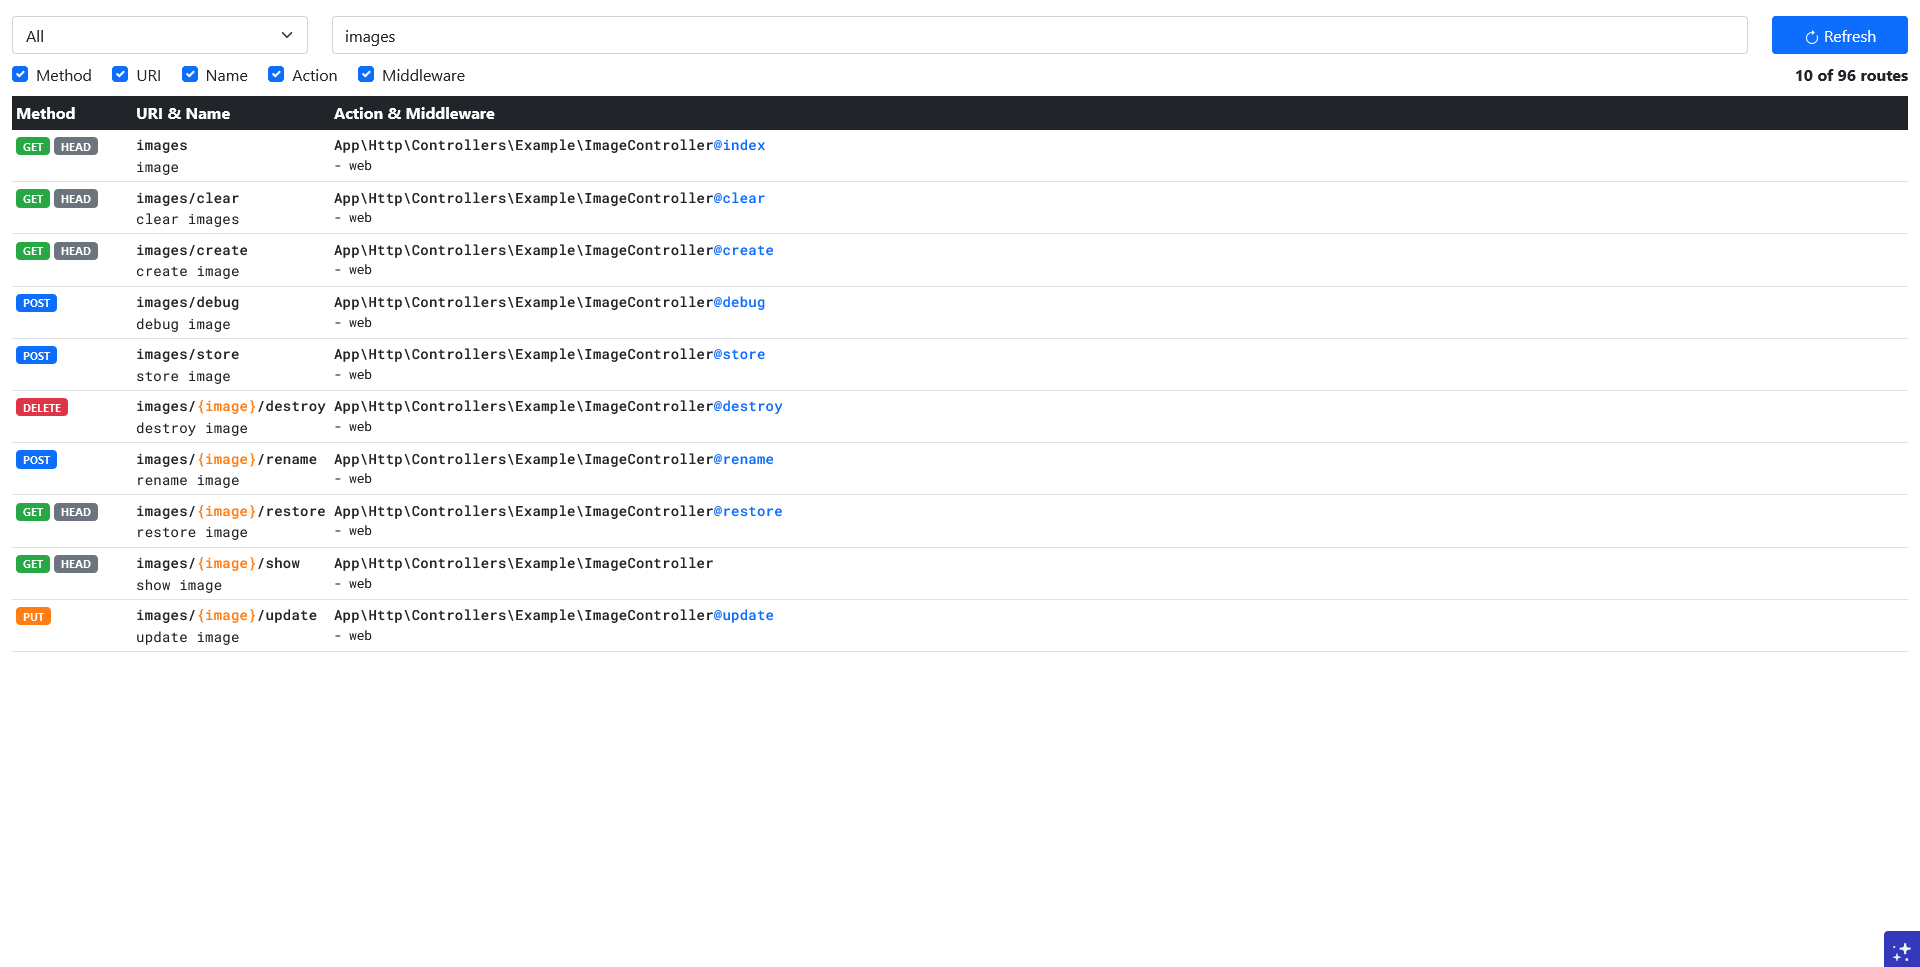
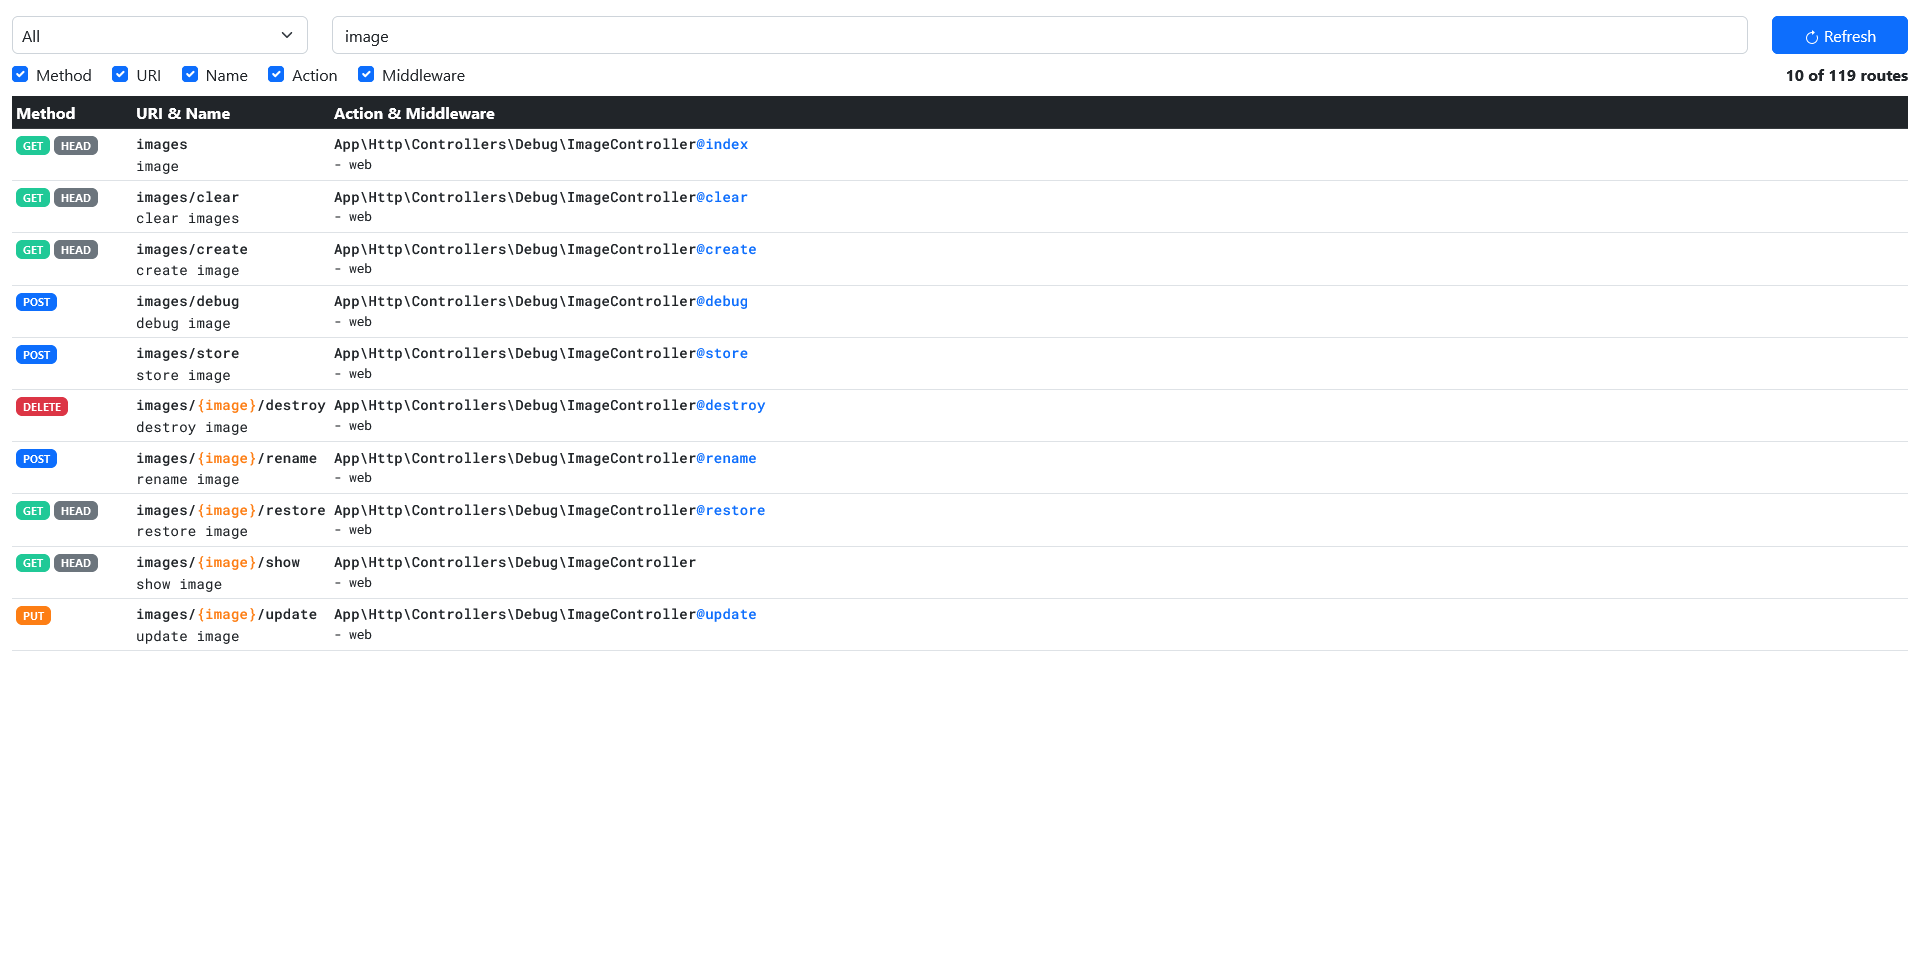
declare Debug/ImageController as Depricated

diff --git a/app/Http/Controllers/Debug/ImageController.php b/app/Http/Controllers/Debug/ImageController.php
@@ -6,12 +6,14 @@ use Exception;
 use App\Models\Image;
 use Illuminate\Http\Request;
 use App\Services\ImageService;
-use Database\Seeders\ImageSeeder;
 use Illuminate\Support\Facades\DB;
 use App\Http\Controllers\Controller;
 use Illuminate\Support\Facades\Storage;
 use App\Http\Requests\StoreImageRequest;
-use App\Http\Controllers\Modules\ImageValidatorModule;
+
+/**
+ * @deprecated
+ */
 
 class ImageController extends Controller
 {
@@ -26,13 +28,12 @@ class ImageController extends Controller
     /* variant1 */
     /**
      * Display a listing of the resource.
-     *
+     * performance: 1 querie->good
      * @return \Illuminate\Http\Response
      */
     public function index()
     {
         $images = Image::withTrashed()->get();
-        // performance: 1 querie->good
         if ($images->isEmpty())
             return view('image.index');
         else
@@ -76,7 +77,7 @@ class ImageController extends Controller
             /* Pfad mit Namen und speichern*/
             // $path = $request->file('image')->storeAs('images', $name, 'public');
             /* Pfad ohne Namen */
-            $name = time() . $request->file('image')->hasName();
+            $name = time() . $request->file('image')->has('name');
             $request->file('image')->storeAs('images', $name, 'public');
             $metadata = Image::create();
             $metadata->name = $name;
@@ -101,7 +102,6 @@ class ImageController extends Controller
     {
         return view('/image.upload');
     }
-
 
     /**
      * Display the specified resource.
@@ -205,7 +205,7 @@ class ImageController extends Controller
     {
         $this->imageService->imageExist($request);
         $this->imageService->imageValid($request);
-        $name = $request->file('image')->hasName();
+        $name = $request->file('image')->has('name');
         $path = $request->file('image')->store('image');
 
         // SaveOrFail costumized
@@ -258,7 +258,10 @@ class ImageController extends Controller
 
         //copy Uploaded File
         $destinationPath = 'debugPath';
-        $req->copy($destinationPath, $req->hasName());
+        $req->copy(
+            $destinationPath,
+            $req->has('name')
+        );
 
         /* display self metadata */
         $path = 'debug';

diff --git a/app/Http/Controllers/ImageController.php b/app/Http/Controllers/ImageController.php
@@ -2,62 +2,43 @@
 
 namespace App\Http\Controllers;
 
-use Illuminate\Http\Request;
+use App\Models\Image;
+use App\Http\Requests\StoreImageRequest;
+use App\Http\Requests\UpdateImageRequest;
 
 class ImageController extends Controller
 {
-    /**
-     * Display a listing of the resource.
-     */
     public function index()
     {
         //
     }
 
-    /**
-     * Show the form for creating a new resource.
-     */
     public function create()
     {
         //
     }
 
-    /**
-     * Store a newly created resource in storage.
-     */
-    public function store(Request $request)
+    public function store(StoreImageRequest $request)
     {
         //
     }
 
-    /**
-     * Display the specified resource.
-     */
-    public function show(string $id)
+    public function show(Image $image)
     {
         //
     }
 
-    /**
-     * Show the form for editing the specified resource.
-     */
-    public function edit(string $id)
+    public function edit(Image $image)
     {
         //
     }
 
-    /**
-     * Update the specified resource in storage.
-     */
-    public function update(Request $request, string $id)
+    public function update(UpdateImageRequest $request, Image $image)
     {
         //
     }
 
-    /**
-     * Remove the specified resource from storage.
-     */
-    public function destroy(string $id)
+    public function destroy(Image $image)
     {
         //
     }

diff --git a/app/Http/Controllers/Debug/UserController.php b/app/Http/Controllers/Debug/UserController.php
@@ -10,13 +10,13 @@ class UserController extends Controller
 {
     public function test()
     {
-        /** works performance: 2 queries->bad*/
-        if (User::first() == null)
-            $users = null;
-        else {
-            $users = User::all();
-            return view('debug.person', compact('users'));
-        }
+        // /** works performance: 2 queries->bad*/
+        // if (User::first() == null)
+        //     $users = null;
+        // else {
+        //     $users = User::all();
+        //     return view('debug.person', compact('users'));
+        // }
 
         /** need auth */
         // $dbUser = User::where('name', 'Max Mustermann')->first();

diff --git a/app/Http/Controllers/Debug/PersonController.php b/app/Http/Controllers/Debug/PersonController.php
@@ -11,12 +11,12 @@ class PersonController extends Controller
 {
     public function test($id = 1)
     {
-        /** need pagination, performance: 2 queries->bad */
-        if (Person::count() == 0)
-            return view('debug.user');
-        else
-            $people = Person::all();
-        return view('debug.user', compact('people'));
+        // /** need pagination, performance: 2 queries->bad */
+        // if (Person::count() == 0)
+        //     return view('debug.user');
+        // else
+        //     $people = Person::all();
+        // return view('debug.user', compact('people'));
 
         /** works */
         // $view = Person::view();

diff --git a/app/Services/ImageService.php b/app/Services/ImageService.php
@@ -22,7 +22,7 @@ class ImageService
     public function imageValid(Request $request)
     {
         $validatedImage = $request->validate([
-            'image' => 'image|mimes:jpg,png,jpeg,gif,svg|max:2048',
+            'image' => 'image|mimes:jpg,png,jpeg,gif,svg,bmp,application/pdf|max:2048',
         ]);
         return $validatedImage;
     }

diff --git a/resources/views/components/image/menu.blade.php b/resources/views/components/image/menu.blade.php
@@ -1,3 +1,5 @@
+<h1 style="color: red">@depricated</h1>
+
 <a href="/images">{{ __('image.index') }}</a>
 <blockquote><a href="/images/store"> {{ __('image.store') }} </a></blockquote>
 <a href="/images/create">{{ __('image.create') }}</a>

diff --git a/resources/views/components/debug/menu.blade.php b/resources/views/components/debug/menu.blade.php
@@ -74,3 +74,4 @@
 </blockquote>
 <a href="/permission/role">RolePermission</a>
 <a href="/permission/user">UserPermission</a>
+<blockquote></blockquote>
